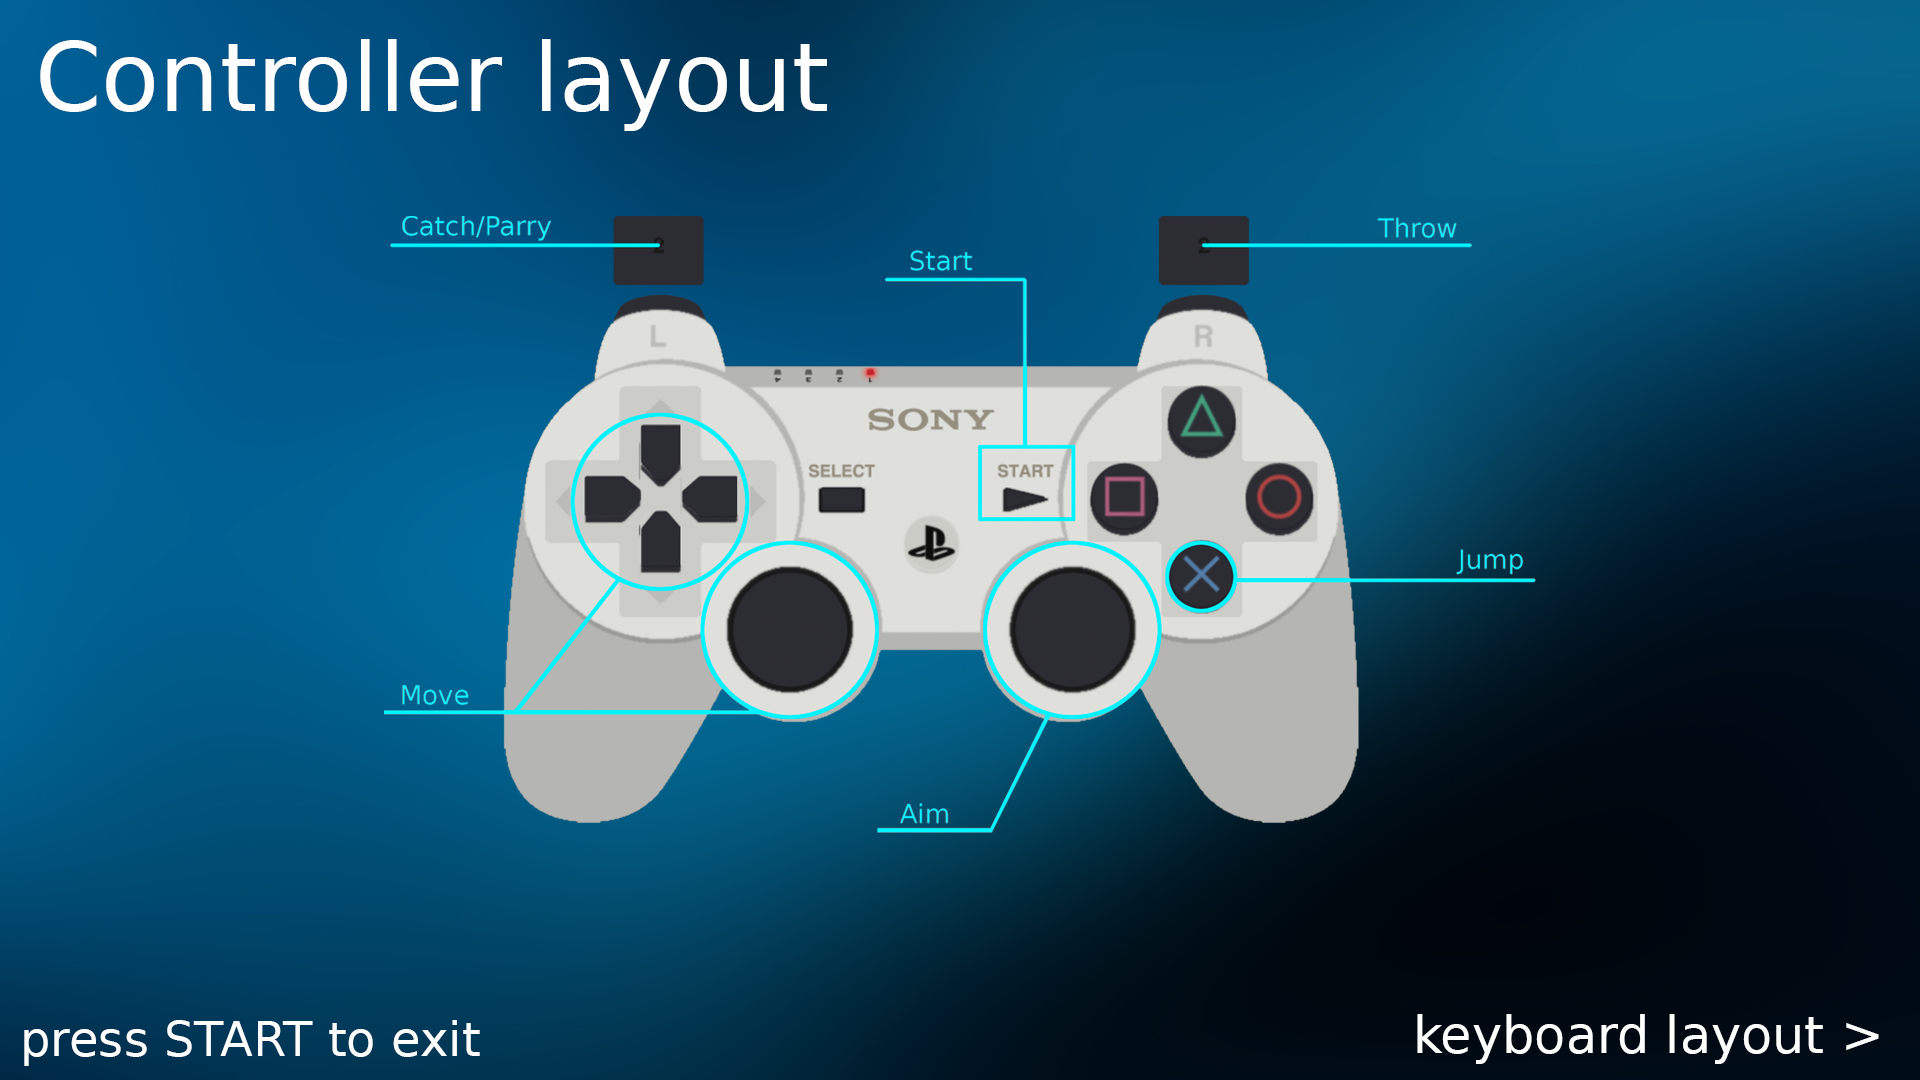
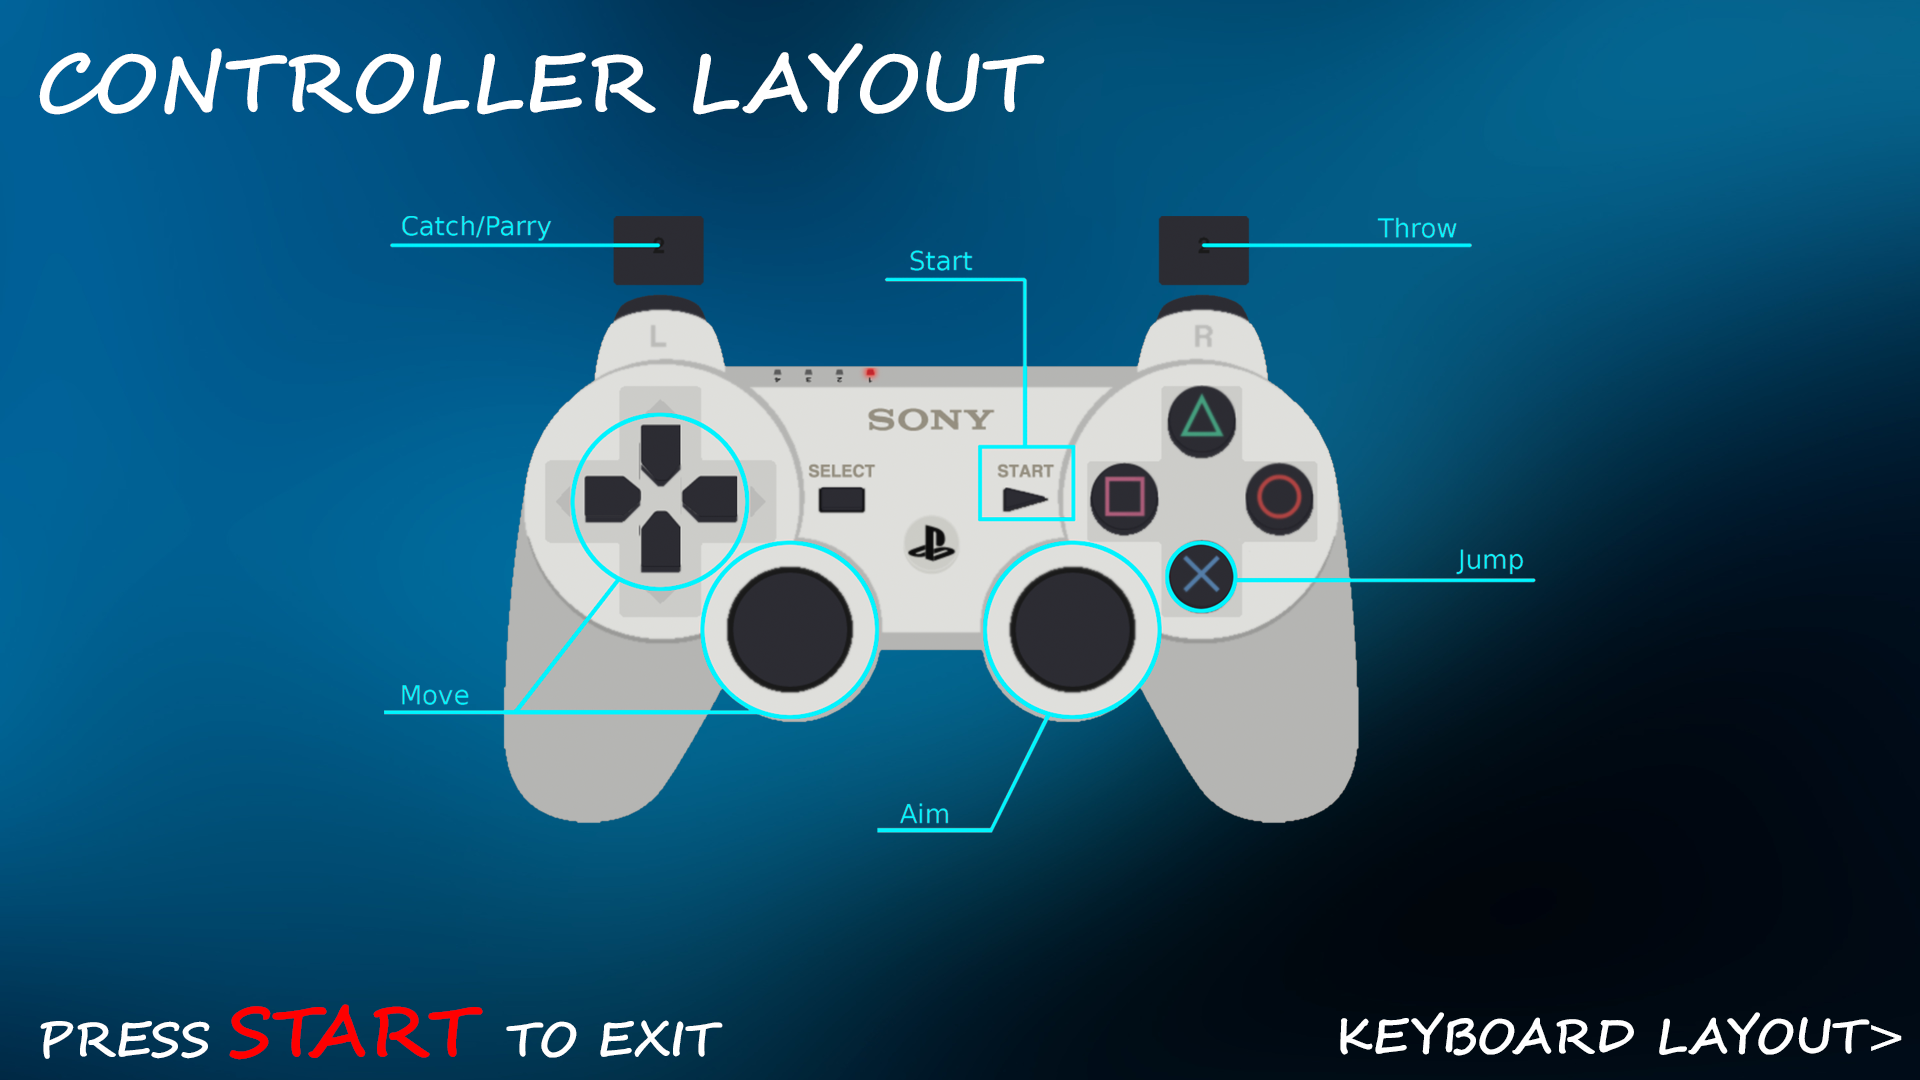
Change the transparency of pause-menu and change font of text as well

Changed region(s): [[0.0, 0.0306, 0.5625, 0.1222], [0.0, 0.9167, 0.375, 0.9778], [0.6875, 0.9167, 1.0, 0.9778]]

diff --git a/gamehud.js b/gamehud.js
@@ -95,7 +95,7 @@ GameHUD.prototype.update = function() {
 		}
 		if (count === 0) count = this.maxLives; */
 		//if (count === 0 && ent.player.team !== this.entities[i+1].player.team) removed = 0;
-		console.log("NUMBER OF ENTITIES LEFT =", this.entities.length);
+		//console.log("NUMBER OF ENTITIES LEFT =", this.entities.length);
 	}
 	
 	for (var i = 0; i < this.entities.length; i++)	{
